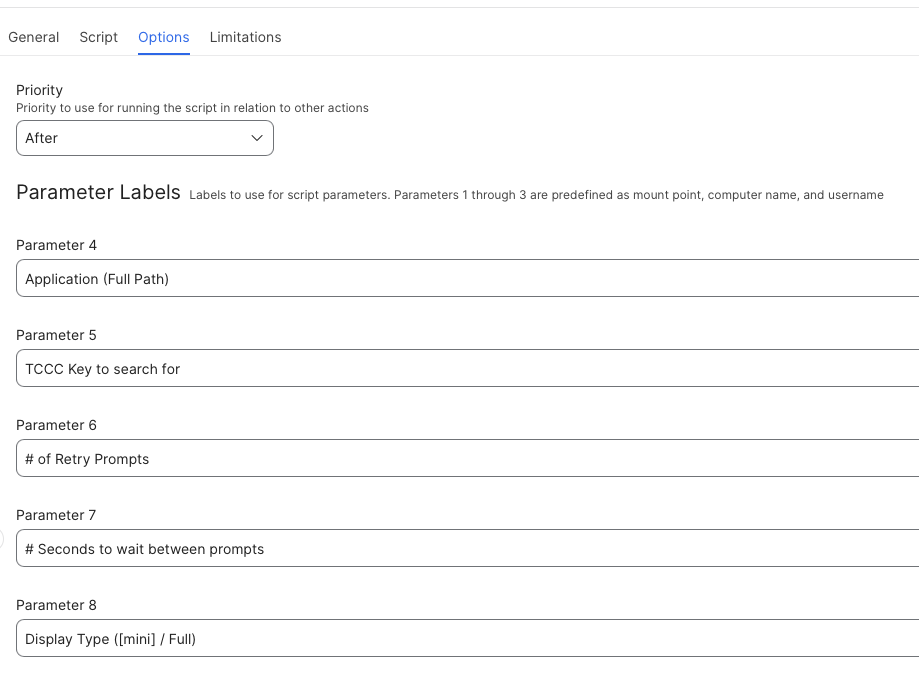
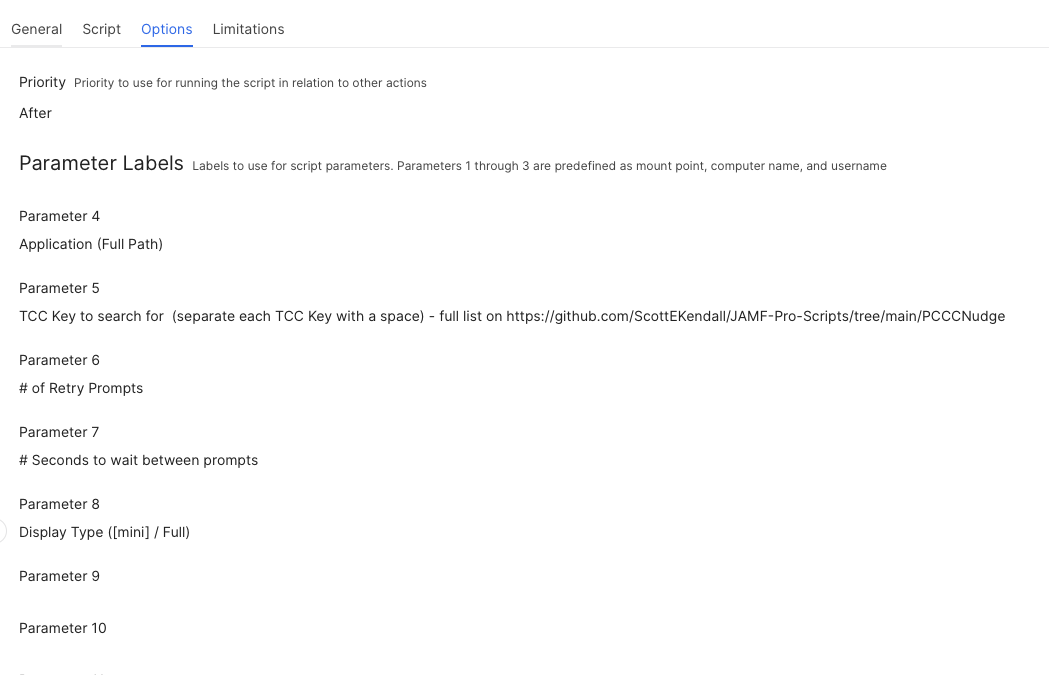
Swift Dialog notification for allowing Security & Privacy items

diff --git a/PPPCNudge/README.md b/PPPCNudge/README.md
@@ -6,8 +6,9 @@ This can be modified to handle any TCC Key value that is present on the system. 
 
 *This script is designed to test/evaluate the current condition of the PPPC Key.  If everything seems OK (enabled), it will exit quietly with no user interaction, so theoretically you could scope this to all users...*
 
+**v1.2 update now includes the ability to have multiple TCCKeys to be evalulated with one script call.  Just pass in each TCC service key seperated by a space. (ie. _kTCCServiceSystemPolicyAllFiles kTCCServiceCamera kTCCServiceMicrophone_)**. will allow for the full Disk access, Camera & Microphone to be checked for a particular app.
 
-**Exmaple screen for Screen & Audio recording**
+**Example screen for Screen & Audio recording**
 
 ![](/PPPCNudge/PPPCNudge-Screen.png)
 
